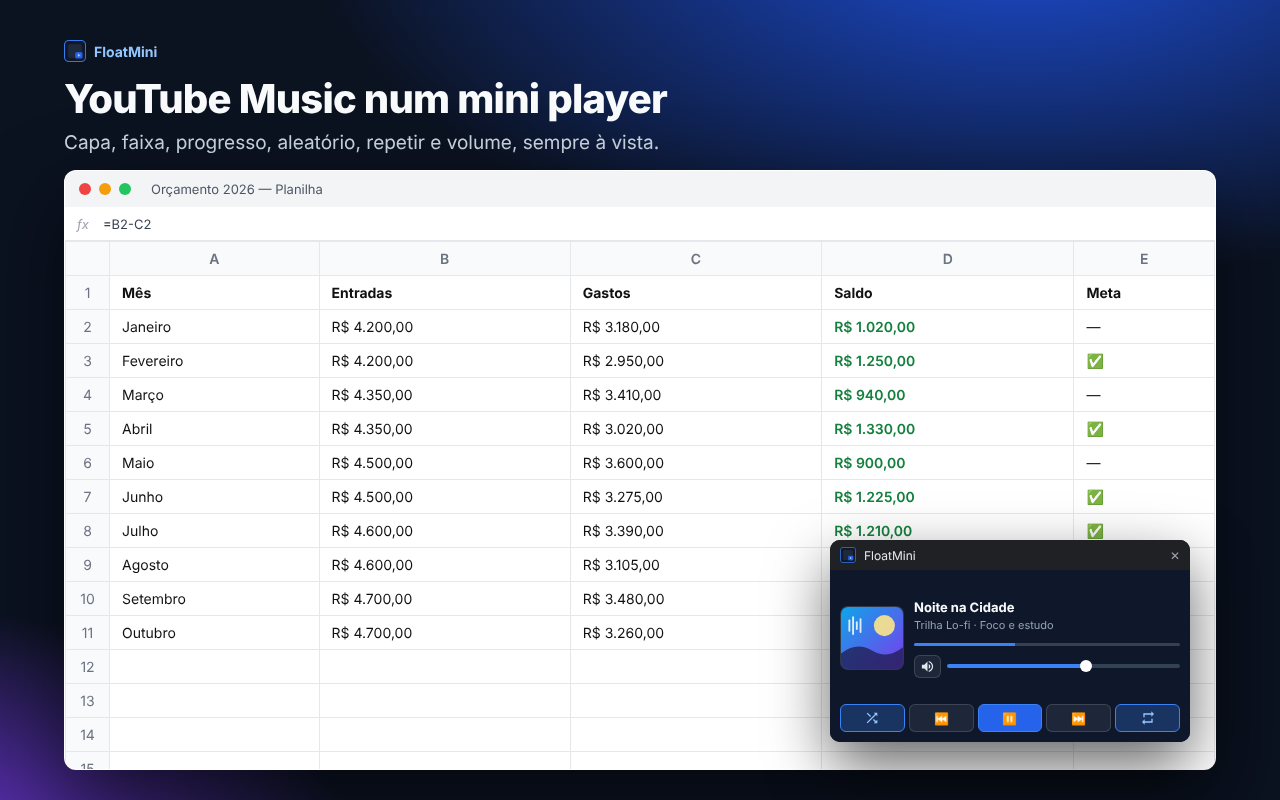
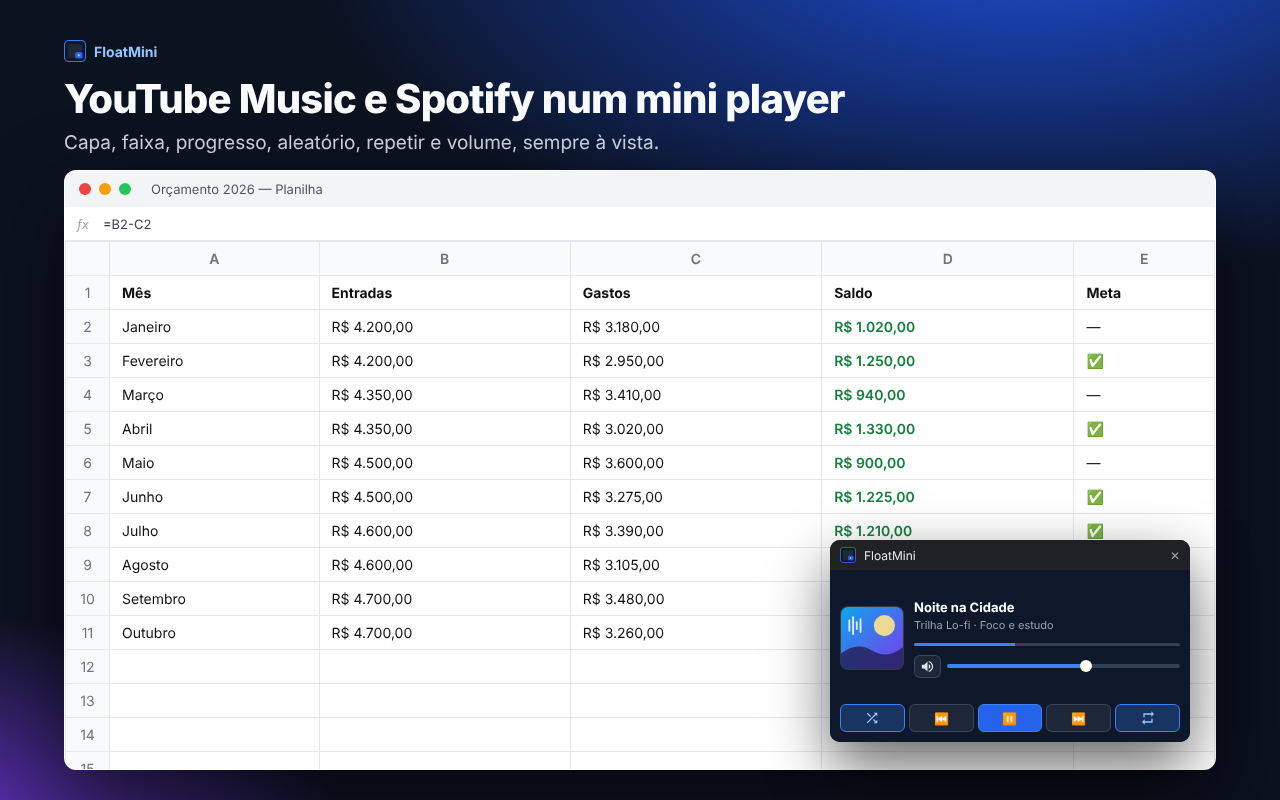
docs: Spotify e serviços de streaming nas descrições e screenshots (#17)
Claude-Session: https://claude.ai/code/session_01HVP75yX7X3jj7Wn37DdhxP

Changed region(s): [[0.2812, 0.0938, 0.6562, 0.1562]]

diff --git a/store/LISTING.md b/store/LISTING.md
@@ -17,30 +17,38 @@ Gere o `.zip` com `npm run zip:ext` (sai em `dist-extension/floatmini-extension-
 
 ### Descrição curta (até 132 caracteres) — vem do `manifest.json`
 
-> Mini janela flutuante sempre no topo para YouTube, YouTube Music, Spotify e vídeos da web.
+> Janela flutuante sempre no topo para YouTube, YouTube Music, Spotify, Netflix, Prime Video, Disney+ e vídeos da web.
 
 ### Descrição — Português (Brasil)
 
 ```
 Cansado de trocar de aba só para pausar uma música ou acompanhar um vídeo enquanto trabalha?
 
-O FloatMini coloca o YouTube e o YouTube Music numa mini janela flutuante que fica SEMPRE POR CIMA de tudo: editor de código, planilha, reunião, jogo, o que estiver na sua tela.
+O FloatMini coloca o YouTube, o YouTube Music, o Spotify e os seus serviços de streaming numa mini janela flutuante que fica SEMPRE POR CIMA de tudo: editor de código, planilha, reunião, jogo, o que estiver na sua tela.
 
 ▶ YOUTUBE
 • O próprio vídeo numa janela flutuante, redimensionável
+• Linha do tempo para ir a qualquer ponto do vídeo
 • Voltar/avançar 10 segundos, play/pausa e velocidade (1x a 2x)
+• Legendas aparecem na janela flutuante
 • Volume com botão de mudo
 • Teclado: espaço, ← →, ↑ ↓ e M
 
-♫ YOUTUBE MUSIC
+♫ YOUTUBE MUSIC E SPOTIFY
 • Mini player compacto com capa, faixa, artista e progresso
+• Clique na barra de progresso para mudar o tempo da música
 • Anterior, play/pausa, próxima, aleatório e repetir (todas / só esta)
 • Os botões mostram o estado atual, igual ao player do site
 • Volume com botão de mudo
 
+🎬 NETFLIX, PRIME VIDEO, DISNEY+ E OUTROS SITES DE VÍDEO
+• O vídeo em janela flutuante com linha do tempo, ±10 s, velocidade e volume
+• As legendas do site vão junto para a janela
+• Abra pelo botão da extensão ou pelo menu do botão direito
+
 ⚡ RÁPIDO DE USAR
 • Ícone integrado na barra do próprio player do YouTube e do YouTube Music
-• Atalho Alt + P na página do vídeo
+• Atalho Alt + P no YouTube, YouTube Music e Spotify
 • Também pelo botão da extensão ou pelo menu do botão direito
 • Ao fechar a janela, o vídeo volta para a página exatamente onde estava
 
@@ -48,8 +56,6 @@ O FloatMini coloca o YouTube e o YouTube Music numa mini janela flutuante que fi
 • Não coleta nenhum dado, não tem anúncios nem rastreadores
 • Funciona 100% no seu navegador
 • Código aberto (GPL-3.0): github.com/Jorge-Lana/floatmini-extension
-
-Spotify Web: suporte em beta.
 
 Requer Chrome 116 ou mais novo (também funciona no Edge, Brave e Opera).
 
@@ -61,23 +67,31 @@ Gostou? Apoie o projeto: buymeacoffee.com/jorgelana
 ```
 Tired of switching tabs just to pause a song or keep an eye on a video while you work?
 
-FloatMini puts YouTube and YouTube Music in a small floating window that stays ALWAYS ON TOP of everything: your code editor, spreadsheets, meetings, games — whatever is on your screen.
+FloatMini puts YouTube, YouTube Music, Spotify and your streaming services in a small floating window that stays ALWAYS ON TOP of everything: your code editor, spreadsheets, meetings, games — whatever is on your screen.
 
 ▶ YOUTUBE
 • The video itself in a resizable floating window
+• Timeline to jump to any point of the video
 • Back/forward 10 seconds, play/pause and speed (1x to 2x)
+• Subtitles show up in the floating window
 • Volume with mute button
 • Keyboard: space, ← →, ↑ ↓ and M
 
-♫ YOUTUBE MUSIC
+♫ YOUTUBE MUSIC AND SPOTIFY
 • Compact mini player with artwork, track, artist and progress
+• Click the progress bar to change the song position
 • Previous, play/pause, next, shuffle and repeat (all / one)
 • Buttons show the current state, just like the site's player
 • Volume with mute button
 
+🎬 NETFLIX, PRIME VIDEO, DISNEY+ AND OTHER VIDEO SITES
+• The video in a floating window with timeline, ±10 s, speed and volume
+• The site's subtitles come along to the window
+• Open it from the extension button or the right-click menu
+
 ⚡ QUICK TO USE
 • Icon built into the YouTube and YouTube Music player bar
-• Alt + P shortcut on the video page
+• Alt + P shortcut on YouTube, YouTube Music and Spotify
 • Also from the extension button or the right-click menu
 • When you close the window, the video goes back to the page exactly where it was
 
@@ -85,8 +99,6 @@ FloatMini puts YouTube and YouTube Music in a small floating window that stays A
 • Collects no data, no ads, no trackers
 • Runs 100% in your browser
 • Open source (GPL-3.0): github.com/Jorge-Lana/floatmini-extension
-
-Spotify Web: beta support.
 
 Requires Chrome 116 or newer (also works on Edge, Brave and Opera).
 

diff --git a/extension/README.md b/extension/README.md
@@ -1,6 +1,6 @@
 # FloatMini - Extensão de Janela Flutuante Always-on-Top
 
-Extensão de navegador (Manifest V3) que coloca o vídeo do **YouTube**, a música do **YouTube Music** ou do **Spotify Web** numa janela compacta que fica **sempre por cima** dos outros programas, usando a API Document Picture-in-Picture do Chrome.
+Extensão de navegador (Manifest V3) que coloca o vídeo do **YouTube**, a música do **YouTube Music** ou do **Spotify Web** e o vídeo de serviços de streaming (**Netflix**, **Prime Video**, **Disney+** e outros sites) numa janela compacta que fica **sempre por cima** dos outros programas, usando a API Document Picture-in-Picture do Chrome.
 
 Requer Chrome, Edge, Brave ou Opera 116+, ou **Firefox 151+** (desktop).
 
@@ -32,9 +32,9 @@ Requer Chrome, Edge, Brave ou Opera 116+, ou **Firefox 151+** (desktop).
 
 | Site | Conteúdo |
 |------|----------|
-| YouTube e outros sites com vídeo | Só o vídeo, ocupando a janela inteira. Os controles aparecem numa barrinha ao mexer o mouse e somem sozinhos depois de 2 segundos: ⏪ 10s, Play/Pausar, 10s ⏩, velocidade (1x a 2x) e volume (mudo + controle deslizante). Teclas: espaço, ← →, ↑ ↓ (volume) e M (mudo). |
+| YouTube, Netflix, Prime Video, Disney+ e outros sites com vídeo | Só o vídeo, ocupando a janela inteira, com as legendas do site. Os controles aparecem ao mexer o mouse e somem sozinhos depois de 2 segundos: linha do tempo (clique ou arraste), ⏪ 10s, Play/Pausar, 10s ⏩, velocidade (1x a 2x) e volume (mudo + controle deslizante). Em sites de streaming, abra pelo botão da extensão ou pelo menu do botão direito. Teclas: espaço, ← →, ↑ ↓ (volume) e M (mudo). |
 | YouTube Music | Mini player ("tela menor") com capa, faixa, artista, barra de progresso, volume, aleatório, anterior, play, próxima e repetir. Teclas: ↑ ↓ (volume) e M (mudo). |
-| Spotify Web | Mesmo mini player, controlando os botões do próprio Spotify. |
+| Spotify Web | Mesmo mini player, controlando os botões do próprio Spotify (inclusive a barra de progresso). |
 
 Os botões de aleatório e repetir acionam os do próprio site e mostram o estado atual: ficam **azuis** quando ligados, e o ícone de repetir muda para 🔂 (com "1") quando está repetindo só a música atual. A ordem é desligado → repetir todas → repetir só esta.
 

diff --git a/store/FIREFOX.md b/store/FIREFOX.md
@@ -33,7 +33,7 @@ floatmini
 
 **Summary** (até 250 caracteres)
 ```
-Deixe o YouTube e o YouTube Music numa mini janela flutuante sempre por cima de tudo, com controles de reprodução, aleatório/repetir e volume. Sem anúncios e sem coleta de dados.
+YouTube, YouTube Music, Spotify, Netflix, Prime Video e Disney+ numa mini janela flutuante sempre por cima de tudo, com linha do tempo, legendas e volume. Sem anúncios e sem coleta de dados.
 ```
 
 **Description**: use o mesmo texto em português do `store/LISTING.md`, trocando a linha de requisito por:

diff --git a/README.md b/README.md
@@ -2,7 +2,7 @@
 
 [![Buy me a coffee](https://img.buymeacoffee.com/button-api/?text=Buy%20me%20a%20coffee&emoji=%E2%98%95&slug=jorgelana&button_colour=5F7FFF&font_colour=ffffff&font_family=Cookie&outline_colour=000000&coffee_colour=FFDD00)](https://buymeacoffee.com/jorgelana)
 
-Mini janela flutuante **sempre no topo** para YouTube, YouTube Music, Spotify Web e vídeos da web.
+Mini janela flutuante **sempre no topo** para YouTube, YouTube Music, Spotify e serviços de streaming (Netflix, Prime Video, Disney+ e outros sites de vídeo).
 
 ## Instalar
 
